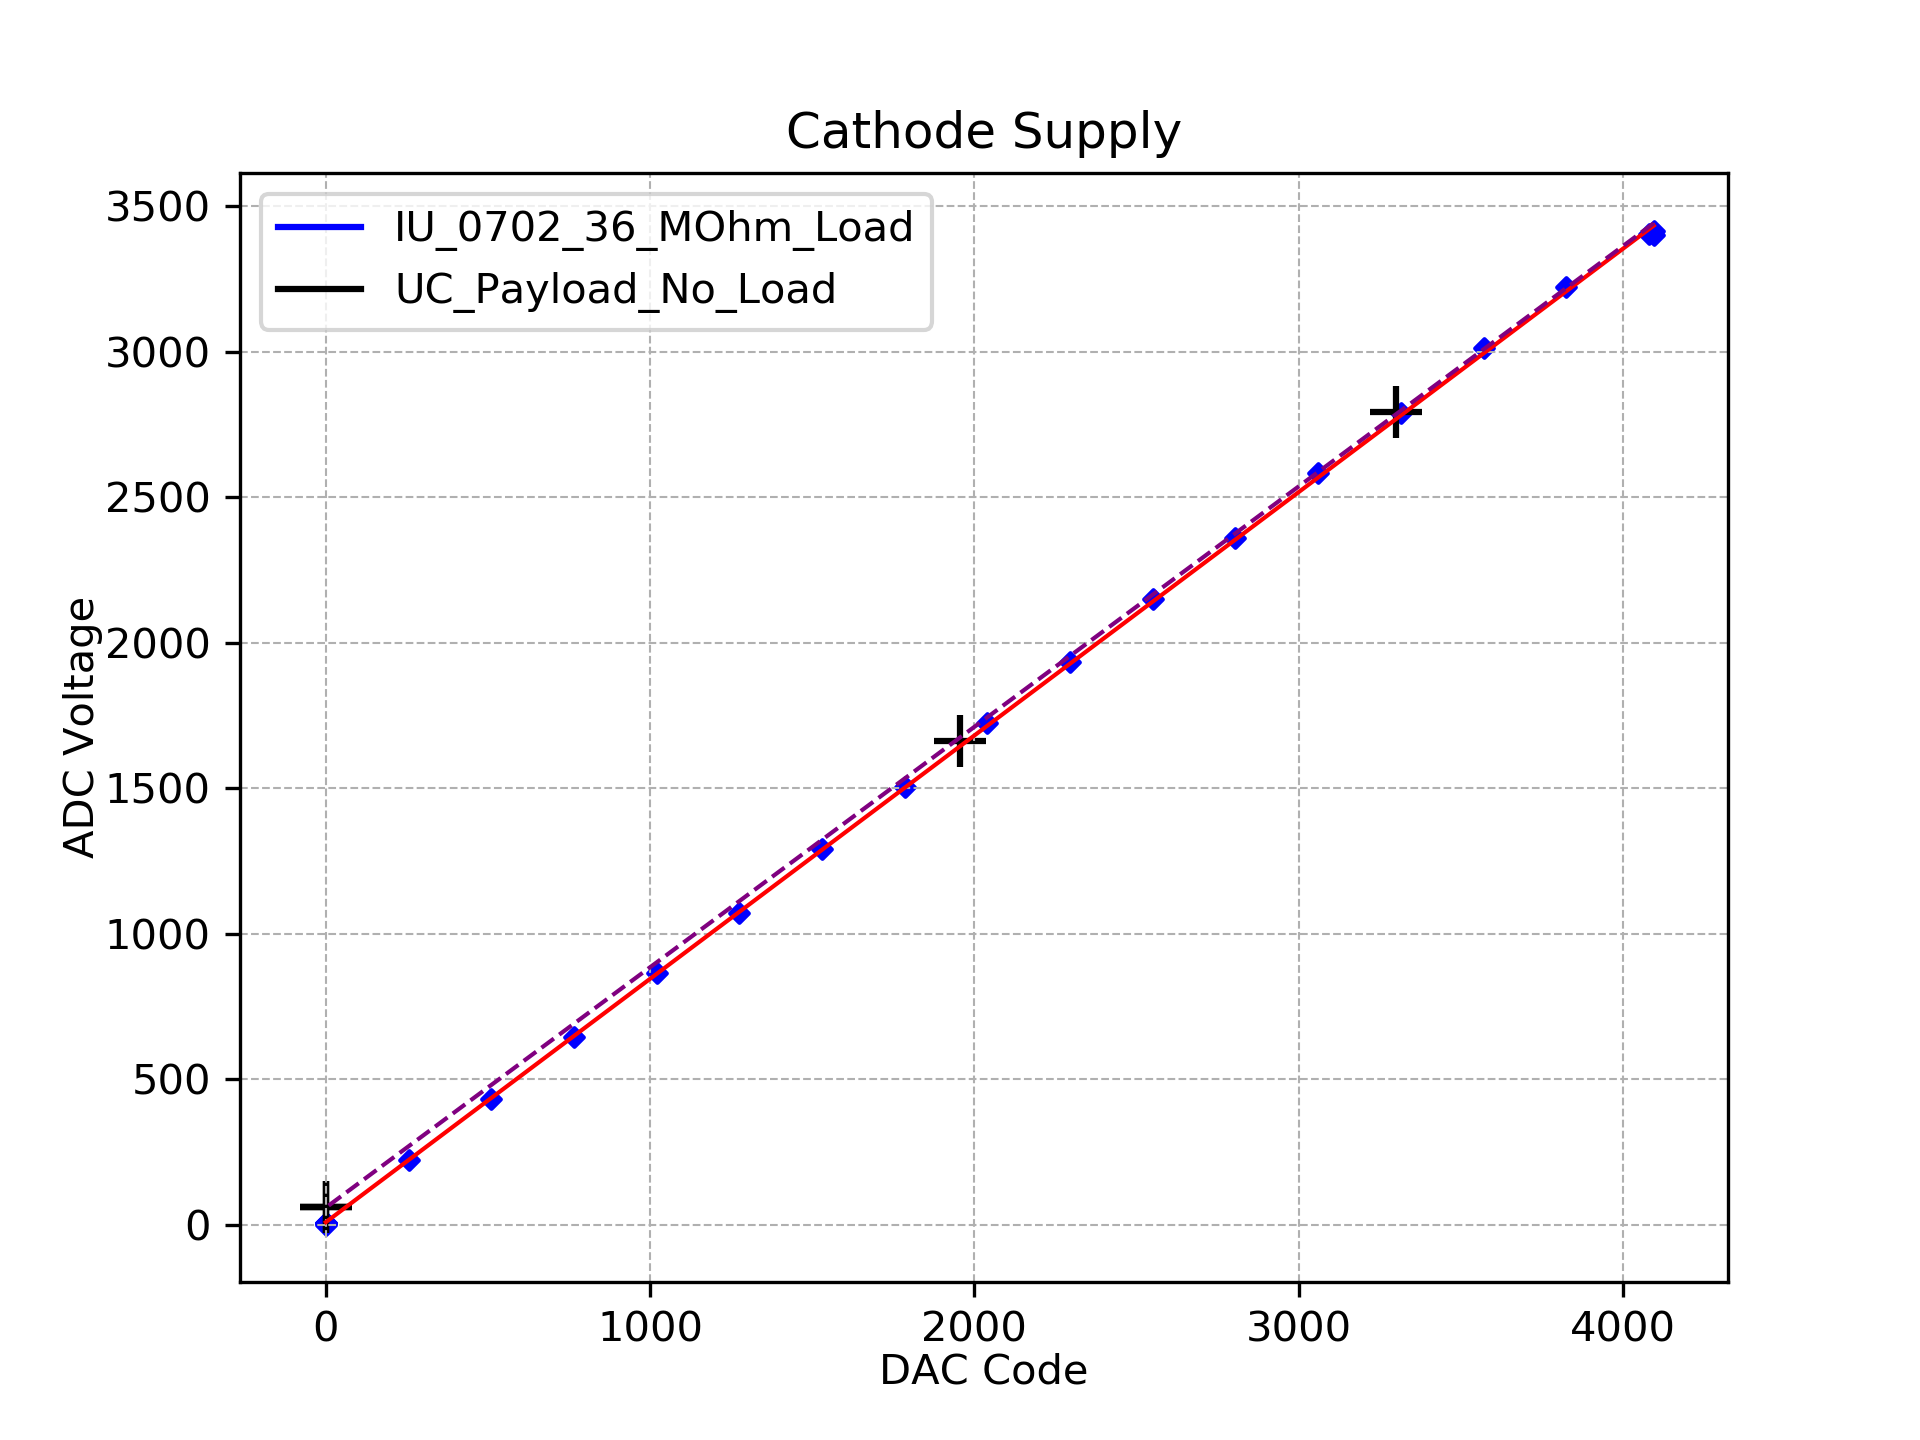
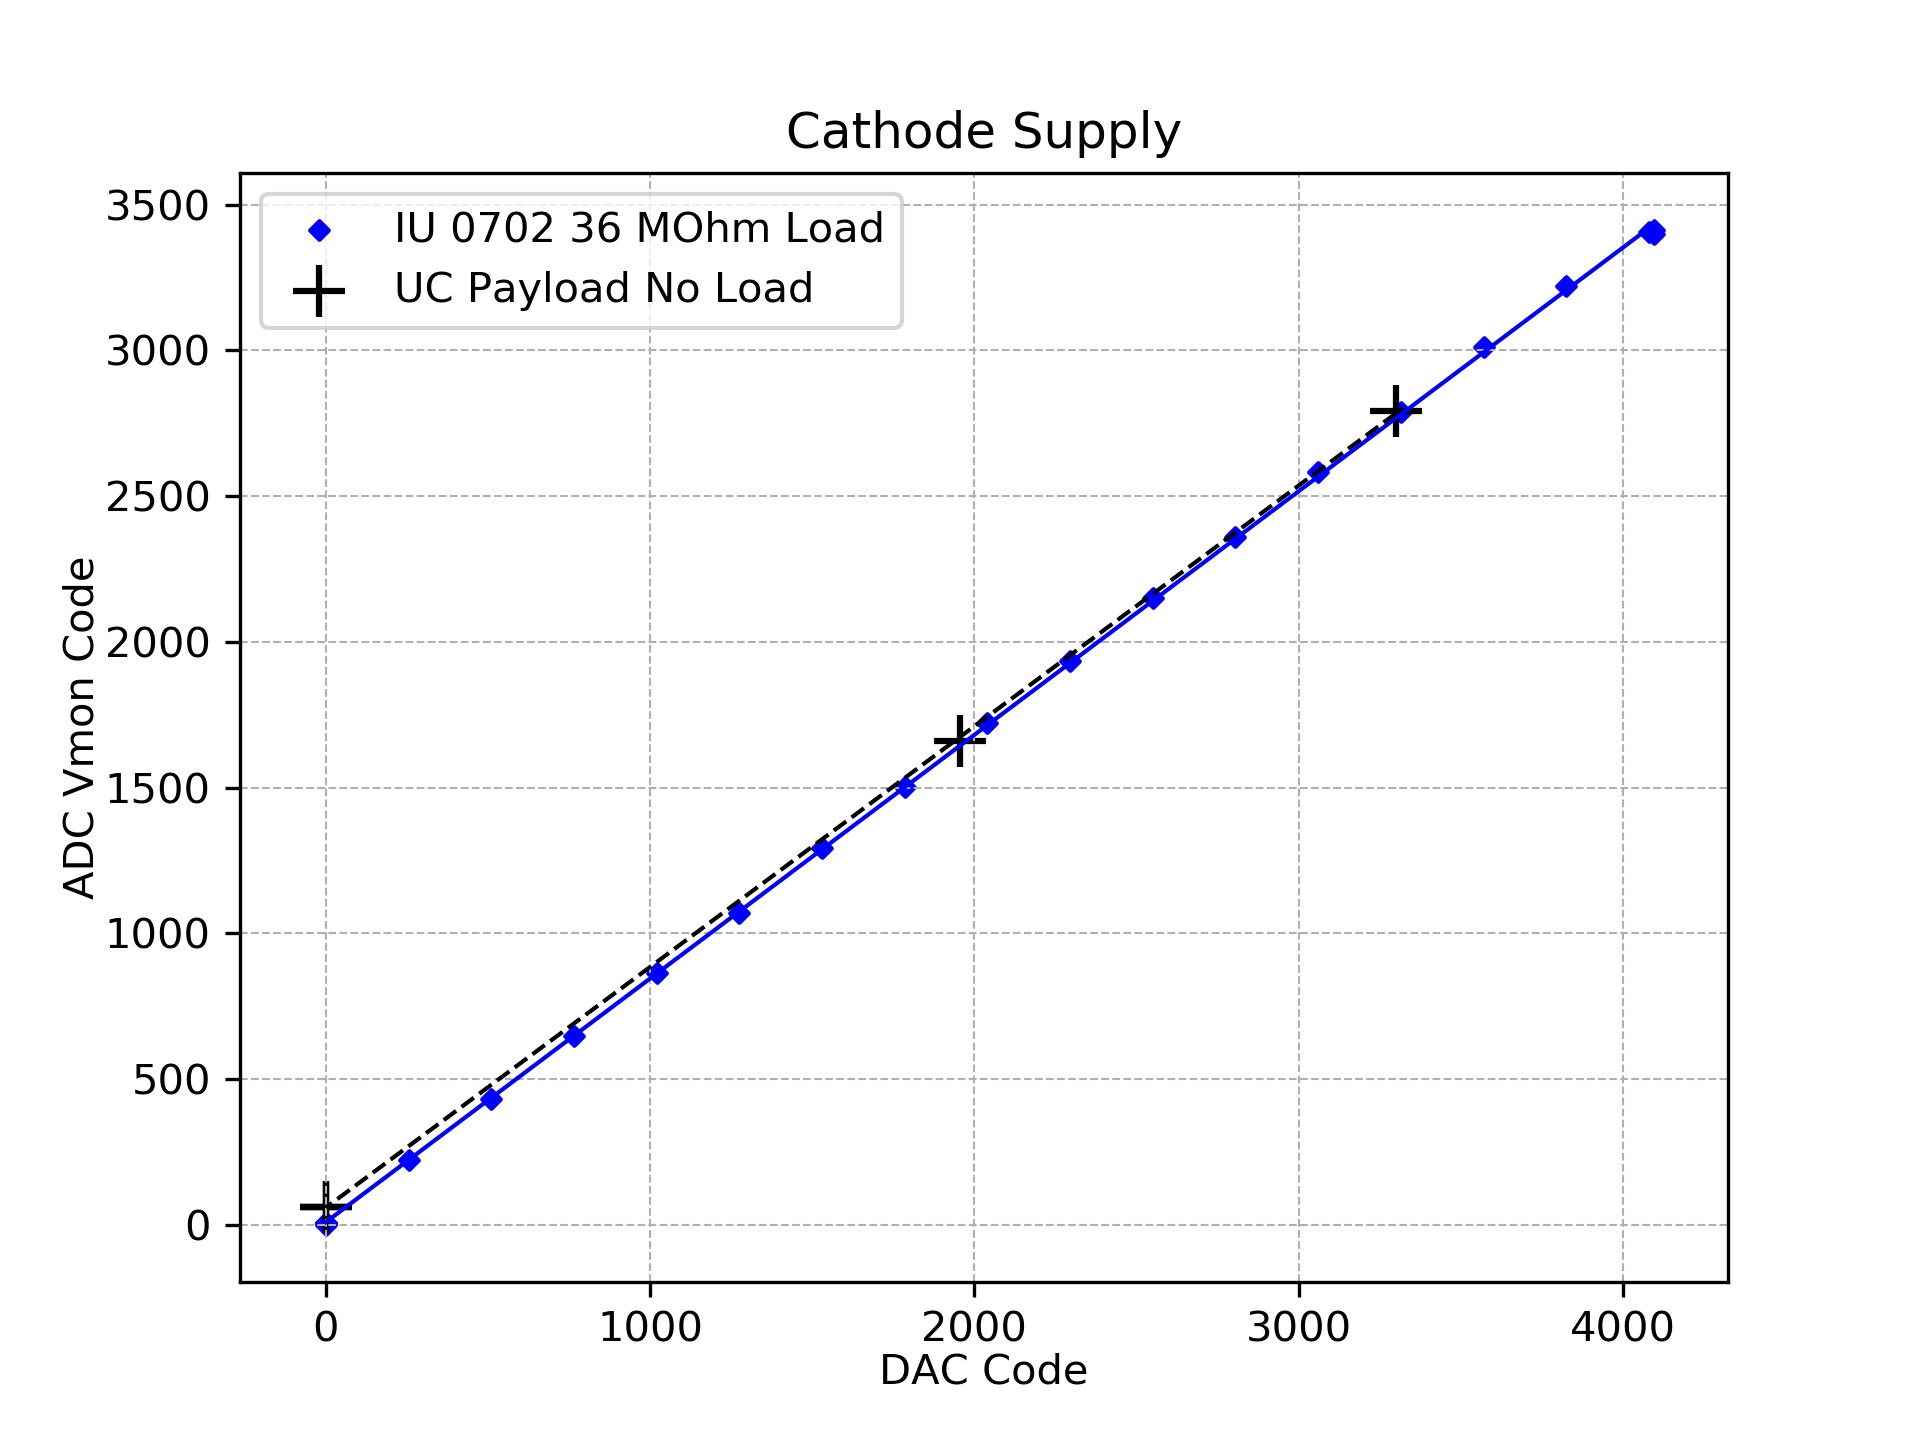
updated test.py. Made potential & cathode plots for 0702, 0722, and payload tests

diff --git a/Testbench/test.py b/Testbench/test.py
@@ -67,6 +67,9 @@ import matplotlib.style as style
 #style.use('tableau-colorblind10')
 style.use('seaborn-colorblind')
 print('...')
+
+#Other
+from test_hv_conversions import *
 ##########################################
 
 # ###
@@ -809,15 +812,8 @@ make for Dac
 '''
  newlist = [expression for item in iterable if condition == True] 
 '''
-##conversions
-from test_hv_conversions import *
 
 
-# DAC_Cat = [for x full_conversion(data_payload['VpgmCat'][0], highvolt_FS, cathode_scale_factor,cathode_volt_FS)]
-
-Cat_control = [full_conversion(x, highvolt_FS, cathode_scale_factor,cathode_volt_FS) for x in data_payload['VpgmCat'][0:5]]
-
-Pot_control = [full_conversion(x, highvolt_FS, cathode_scale_factor,cathode_volt_FS) for x in data_payload['VpgmPot'][0:5]]
 
 def combo_plotter(x, y, x1, y1, data_name, data_name1, title='title', xlabel='x_val', ylabel='y_val', supply='supply', x_name='input', y_name='output'):
     '''
@@ -840,7 +836,6 @@ def combo_plotter(x, y, x1, y1, data_name, data_name1, title='title', xlabel='x_
     theta = np.polyfit(x, y, 1)
     y_line = theta[1] + theta[0] * x
     res = y - y_line
-
     x_lin = np.linspace(max(x),min(x),1000)
     y_all = theta[1] + theta[0] * x_lin
     
@@ -853,19 +848,18 @@ def combo_plotter(x, y, x1, y1, data_name, data_name1, title='title', xlabel='x_
     y_line1 = theta1[1] + theta1[0] * x1
     res1 = y1 - y_line1    
     #y_line1 = [0, 1, 1000, 50, 7000]
-
-    x_lin1 = np.linspace(max(x),min(x),1000)
+    x_lin1 = np.linspace(max(x1),min(x1),1000)
     y_all1 = theta1[1] + theta1[0] * x_lin1
     
     
     #vprint(res)
     
     plt.figure(1, figsize = (8,6))
-    plt.plot(x_lin,y_all, color='red', linewidth=1.0)
+    plt.plot(x_lin,y_all, color='blue', linewidth=1.0)
     plt.scatter(x, y, s=10.0, color='blue', marker="D", label=data_name.replace("_", " "))
     
 #    print(y_line1)
-    plt.plot(x_lin1,y_all1, color='purple', ls='--',linewidth=1.0)
+    plt.plot(x_lin1,y_all1, color='black', ls='--',linewidth=1.0)
     plt.scatter(x1, y1, s=150.0, color='black', marker="+", label=data_name1.replace("_", " "))
 
     
@@ -879,10 +873,11 @@ def combo_plotter(x, y, x1, y1, data_name, data_name1, title='title', xlabel='x_
     #          transform = ax.transAxes, size=10, color="red")
     
 
-    custom_legend = [Line2D([0], [0], color='blue'),
-                     Line2D([0], [0], color='black')]
+    # custom_legend = [Line2D([0], [0], color='blue'),
+    #                  Line2D([0], [0], color='black')]
 
-    legend = plt.legend(custom_legend, [data_name, data_name1], loc='best')
+    # legend = plt.legend(custom_legend, [data_name, data_name1], loc='best')
+    plt.legend()
 
 
     plt.savefig("test_plots/{0}_{1}_{2}_{3}_{4}.png".format(data_name,data_name1,supply,x_name,y_name),dpi=300)
@@ -890,7 +885,7 @@ def combo_plotter(x, y, x1, y1, data_name, data_name1, title='title', xlabel='x_
     
     
     print('Done!')
-    return
+    return theta, theta1
 
 
 
@@ -912,9 +907,12 @@ def baby_plotter(x, y, data_name, title='title', xlabel='x_val', ylabel='y_val',
     x_lin = np.linspace(max(x),min(x),1000)
     y_all = theta[1] + theta[0] * x_lin
     
+    label = data_name.replace("_"," ")
+    
     plt.figure(1, figsize = (8,6))
     plt.plot(x_lin,y_all, color=fit_color, linewidth=1.0)
-    plt.scatter(x, y, s=10.0, color=color, marker=marker, label=data_name.replace("_", " "))
+    plt.scatter(x, y, s=10.0, color=color, marker=marker, label=label)
+    
     
     plt.title("{0}".format(title))
     plt.xlabel(xlabel, labelpad = 0.5, fontsize = 10)
@@ -953,27 +951,10 @@ def combo_plotter(x, y, x1, y2, data_name, data_name1, title='title', xlabel='x_
 
 '''
 
-Cat_Control = [full_conversion(x, highvolt_FS, cathode_scale_factor,cathode_volt_FS) for x in data_payload['VpgmCat'][0:5]]
-
-Pot_Control = [full_conversion(x, highvolt_FS, cathode_scale_factor,cathode_volt_FS) for x in data_payload['VpgmPot'][0:5]]
-
-Cat_ADC = [x/conv_factor_HV for x in data_payload['VmonCat'][0:5]]
-Pot_ADC = [x/conv_factor_HV for x in data_payload['VmonPot'][0:5]]
 
 #For IU 0702 and Payload test
 
-name = 'Cathode Supply'
-#DMM
-combo_plotter(data_0702_LC['HV']['DAC'], data_0702_LC['HV']['Voltage'], Cat_Control, data_payload['DMMCat'][0:5],
-              data_name='IU_0702_36_MOhm_Load', data_name1='UC_Payload_No_Load', title=name, 
-              xlabel='DAC Code', ylabel='DMM Volts', 
-              x_name='DAC', y_name='DMM', supply='Cathode')
- 
-combo_plotter(data_0702_LC['C']['DAC'], data_0702_LC['C']['ADC_Voltage'], Cat_Control, Cat_ADC,
-              data_name='IU_0702_36_MOhm_Load', data_name1='UC_Payload_No_Load', title=name, 
-              xlabel='DAC Code', ylabel='ADC Voltage', 
-              x_name='DAC', y_name='ADC_Voltage', supply='Cathode')
- 
+
 #ADC
 # combo_plotter(data_0702_LC['HV']['DAC'], data_0702_LC['HV']['Voltage'], Cat_control, data_payload['DMMCat'][0:5],
 #               data_name='IU_0702_Large_Load', data_name1='UC_Payload_No_Load', title=name, 
@@ -997,6 +978,179 @@ combo_plotter(data_0702_LC['C']['DAC'], data_0702_LC['C']['ADC_Voltage'], Cat_Co
 #               data_name='IU_0702_Large_Load', title=name, 
 #               xlabel='DAC Code', ylabel='DMM Volts', 
 #               x_name='DAC', y_name='DMM', supply='Cathode', clear=False)
+
+
+def triple_plotter(x, y, x1, y1, x2, y2, data_name, data_name1, data_name2, 
+                   title='title', xlabel='x_val', ylabel='y_val', 
+                   supply='supply', x_name='input', y_name='output'):
+    '''
+    Simple plot maker. Will make a scatter plot and 
+    fit the data with numpy.polyfit()
+    '''
+    '''
+    legend = plt.legend(custom_lines_color, legend_names, loc='best')
+    
+    custom_lines_style = [Line2D([0], [0], color='k', ls='-'),
+                      Line2D([0], [0], color='k', ls='--')]
+
+    '''
+    print("Plotting...")
+
+    #fit and data
+    x = np.array(x)
+    y = np.array(y)
+    theta = np.polyfit(x, y, 1)
+    y_line = theta[1] + theta[0] * x
+    res = y - y_line
+    x_lin = np.linspace(max(x),min(x),1000)
+    y_all = theta[1] + theta[0] * x_lin
+    
+    x1 = np.array(x1)
+    y1 = np.array(y1)
+    theta1 = np.polyfit(x1, y1, 1)
+    y_line1 = theta1[1] + theta1[0] * x1
+    res1 = y1 - y_line1    
+    x_lin1 = np.linspace(max(x1),min(x1),1000)
+    y_all1 = theta1[1] + theta1[0] * x_lin1
+   
+    x2 = np.array(x2)
+    y2 = np.array(y2)
+    theta2 = np.polyfit(x2, y2, 1)
+    y_line2 = theta2[1] + theta2[0] * x2
+    res2 = y2 - y_line2    
+    x_lin2 = np.linspace(max(x2),min(x2),1000)
+    y_all2 = theta2[1] + theta2[0] * x_lin2
+   
+    #plot
+    plt.figure(1, figsize = (8,6))
+
+    plt.plot(x_lin,y_all, color='blue', linewidth=1.0)
+    plt.scatter(x, y, s=10.0, color='blue', marker="D", label=data_name.replace("_", " "))
+    
+    plt.plot(x_lin1,y_all1, color='black', ls='--',linewidth=1.0)
+    plt.scatter(x1, y1, s=150.0, color='black', marker="+", label=data_name1.replace("_", " "))
+
+    plt.plot(x_lin2,y_all2, color='red', ls='-.',linewidth=1.0)
+    plt.scatter(x2, y2, s=30.0, color='red', marker="*", label=data_name2.replace("_", " "))
+
+    plt.title("{0}".format(title))
+    plt.xlabel(xlabel, labelpad = 0.5, fontsize = 10)
+    plt.ylabel(ylabel, labelpad = 0.5, fontsize = 10)
+    plt.grid(visible=True, which='both', axis='both', linestyle='--', linewidth=0.5)
+    # ax = plt.gca()
+
+    # plt.text(0.1,0.8, "y = {0:5.3f} x + {1:5.3f}".format(theta[0],theta[1]),
+    #          transform = ax.transAxes, size=10, color="red")
+    
+
+    # custom_legend = [Line2D([0], [0], color='blue'),
+    #                  Line2D([0], [0], color='black')]
+
+    # legend = plt.legend(custom_legend, [data_name, data_name1], loc='best')
+    plt.legend()
+
+
+    plt.savefig("test_plots/{0}_{1}_{2}_{3}_{4}_{5}.png".format(supply,data_name,data_name1,data_name2,
+                                                                x_name,y_name),dpi=300)
+    plt.clf()
+    
+    
+    print('Done!')
+    return theta, theta1, theta2
+
+
+#####
+##Plots
+####
+
+Cat_Control = [full_conversion(x, highvolt_FS, cathode_scale_factor,cathode_volt_FS) for x in data_payload['VpgmCat'][0:5]]
+
+Pot_Control = [full_conversion(x, highvolt_FS, potential_voltage_scale_factor,potential_volt_FS) for x in data_payload['VpgmPot'][0:5]]
+
+Cat_ADC = [x/conv_factor_HV for x in data_payload['VmonCat'][0:5]]
+Pot_ADC = [x/conv_factor_HV for x in data_payload['VmonPot'][0:5]]
+
+
+#########3
+name = 'Cathode Supply'
+
+print("Cathode Plots")
+#IU 0702 & Paylaod
+#DMM
+theta, theta1 = combo_plotter(data_0702_LC['HV']['DAC'], data_0702_LC['HV']['Voltage'], Cat_Control, data_payload['DMMCat'][0:5],
+              data_name='IU_0702_36_MOhm_Load', data_name1='UC_Payload_No_Load', title=name, 
+              xlabel='DAC Code', ylabel='DMM Volts', 
+              x_name='DAC', y_name='DMM', supply='Cathode')
+
+print("This is for IU 0702 & Payload")
+print("IU 0702")
+print(theta)
+print("UC Payload")
+print(theta1)
+
+#ADC 
+combo_plotter(data_0702_LC['C']['DAC'], data_0702_LC['C']['ADC_Voltage'], Cat_Control, Cat_ADC,
+              data_name='IU_0702_36_MOhm_Load', data_name1='UC_Payload_No_Load', title=name, 
+              xlabel='DAC Code', ylabel='ADC Vmon Code', 
+              x_name='DAC', y_name='ADC_Voltage', supply='Cathode')
+
+#IU 0702 & 0722 & Payload
+#ADC 
+theta, theta1, theta2 = triple_plotter(data_0702_LC['C']['DAC'], data_0702_LC['C']['ADC_Voltage'], 
+               Cat_Control, Cat_ADC, data_0722_C['C']['DAC_Volts'], data_0722_C['C']['ADC_Voltage'], 
+               data_name='IU_0702_36_MOhm_Load', data_name1='UC_Payload_No_Load', data_name2='IU_0722_No_Load', 
+               title=name, xlabel='DAC Code', ylabel='ADC Vmon Code', 
+               x_name='DAC', y_name='ADC_Voltage', supply='Cathode')
+
+print("This is for ADC Vmon Code")
+print("IU 0702")
+print(theta)
+print("UC Payload")
+print(theta1)
+print("IU 0722")
+print(theta2)
+##############3
+
+#########3
+name = 'Potential Supply'
+
+print("Potential Plots")
+#IU 0702 & Paylaod
+#DMM
+theta, theta1 = combo_plotter(data_0702_NP['HV']['DAC'], data_0702_NP['HV']['Voltage'], 
+                              Pot_Control, data_payload['DMMPot'][0:5], data_name='IU_0702_No_Load', 
+                              data_name1='UC_Payload_No_Load', title=name, 
+                              xlabel='DAC Code', ylabel='DMM Volts', 
+                              x_name='DAC', y_name='DMM', supply='Potential')
+
+print("This is for IU 0702 & Payload")
+print("IU 0702")
+print(theta)
+print("UC Payload")
+print(theta1)
+
+#ADC 
+combo_plotter(data_0702_NP['P']['DAC'], data_0702_NP['P']['ADC_Voltage'], Pot_Control, Pot_ADC,
+              data_name='IU_0702_No_Load', data_name1='UC_Payload_No_Load', title=name, 
+              xlabel='DAC Code', ylabel='ADC Vmon Code', 
+              x_name='DAC', y_name='ADC_Voltage', supply='Potential')
+
+#IU 0702 & 0722 & Payload
+#ADC 
+theta, theta1, theta2 = triple_plotter(data_0702_NP['P']['DAC'], data_0702_NP['P']['ADC_Voltage'], 
+               Pot_Control, Pot_ADC, data_0722_P['P']['DAC_Volts'], data_0722_P['P']['ADC_Voltage'], 
+               data_name='IU_0702_No_Load', data_name1='UC_Payload_No_Load', data_name2='IU_0722_No_Load', 
+               title=name, xlabel='DAC Code', ylabel='ADC Vmon Code', 
+               x_name='DAC', y_name='ADC_Voltage', supply='Potential')
+
+print("This is for ADC Vmon Code")
+print("IU 0702")
+print(theta)
+print("UC Payload")
+print(theta1)
+print("IU 0722")
+print(theta2)
+##############3
 
 
 ##End of script##
